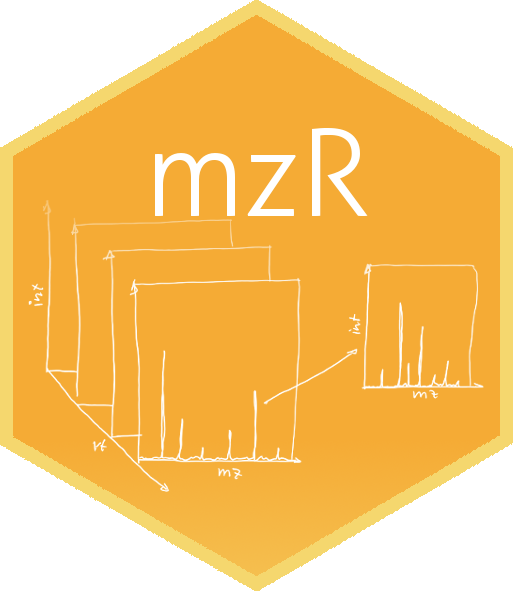
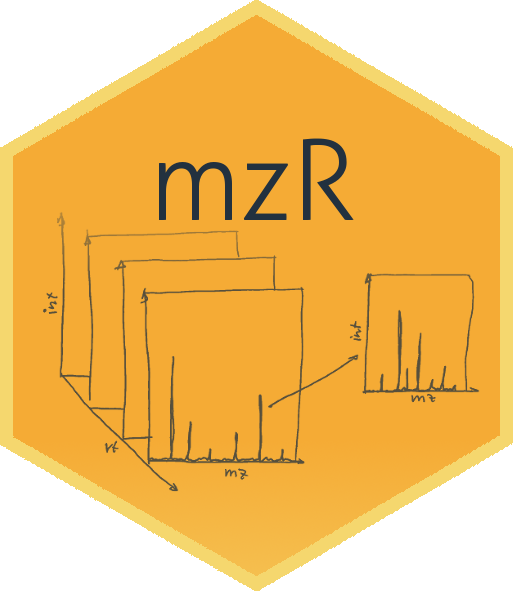
Add template.xcf and dark mzR

Changed region(s): [[0.0624, 0.2132, 0.7173, 0.8528], [0.6238, 0.4264, 0.9357, 0.7005]]

diff --git a/README.md b/README.md
@@ -4,11 +4,16 @@ This repository contains stickers for some Bioconductor packages. Fork this repo
 and create a pull request if you would like to add a sticker for your package
 too or if you would like to modify existing ones.
 
-Check http://www.flatuicolorpicker.com/category/all for some nice color
+To start with a new sticker you might want to use the
+template [template.xcf](template/template.xcf) (gimp format) or you might want
+to check out the `ggtree` sticker from @GuangchuangYu for a sticker created
+entirely in `R`.
+
+Also, check http://www.flatuicolorpicker.com/category/all for some nice color
 definitions.
 
 The font used for the *official* Bioconductor stickers (same used also for the
-Bioconductor logo) is *Aller* (https://www.fontsquirrel.com/fonts/aller).
+Bioconductor logo) is *Aller* (available in directory *fonts/Aller*). 
 
 ## Stickers:
 
